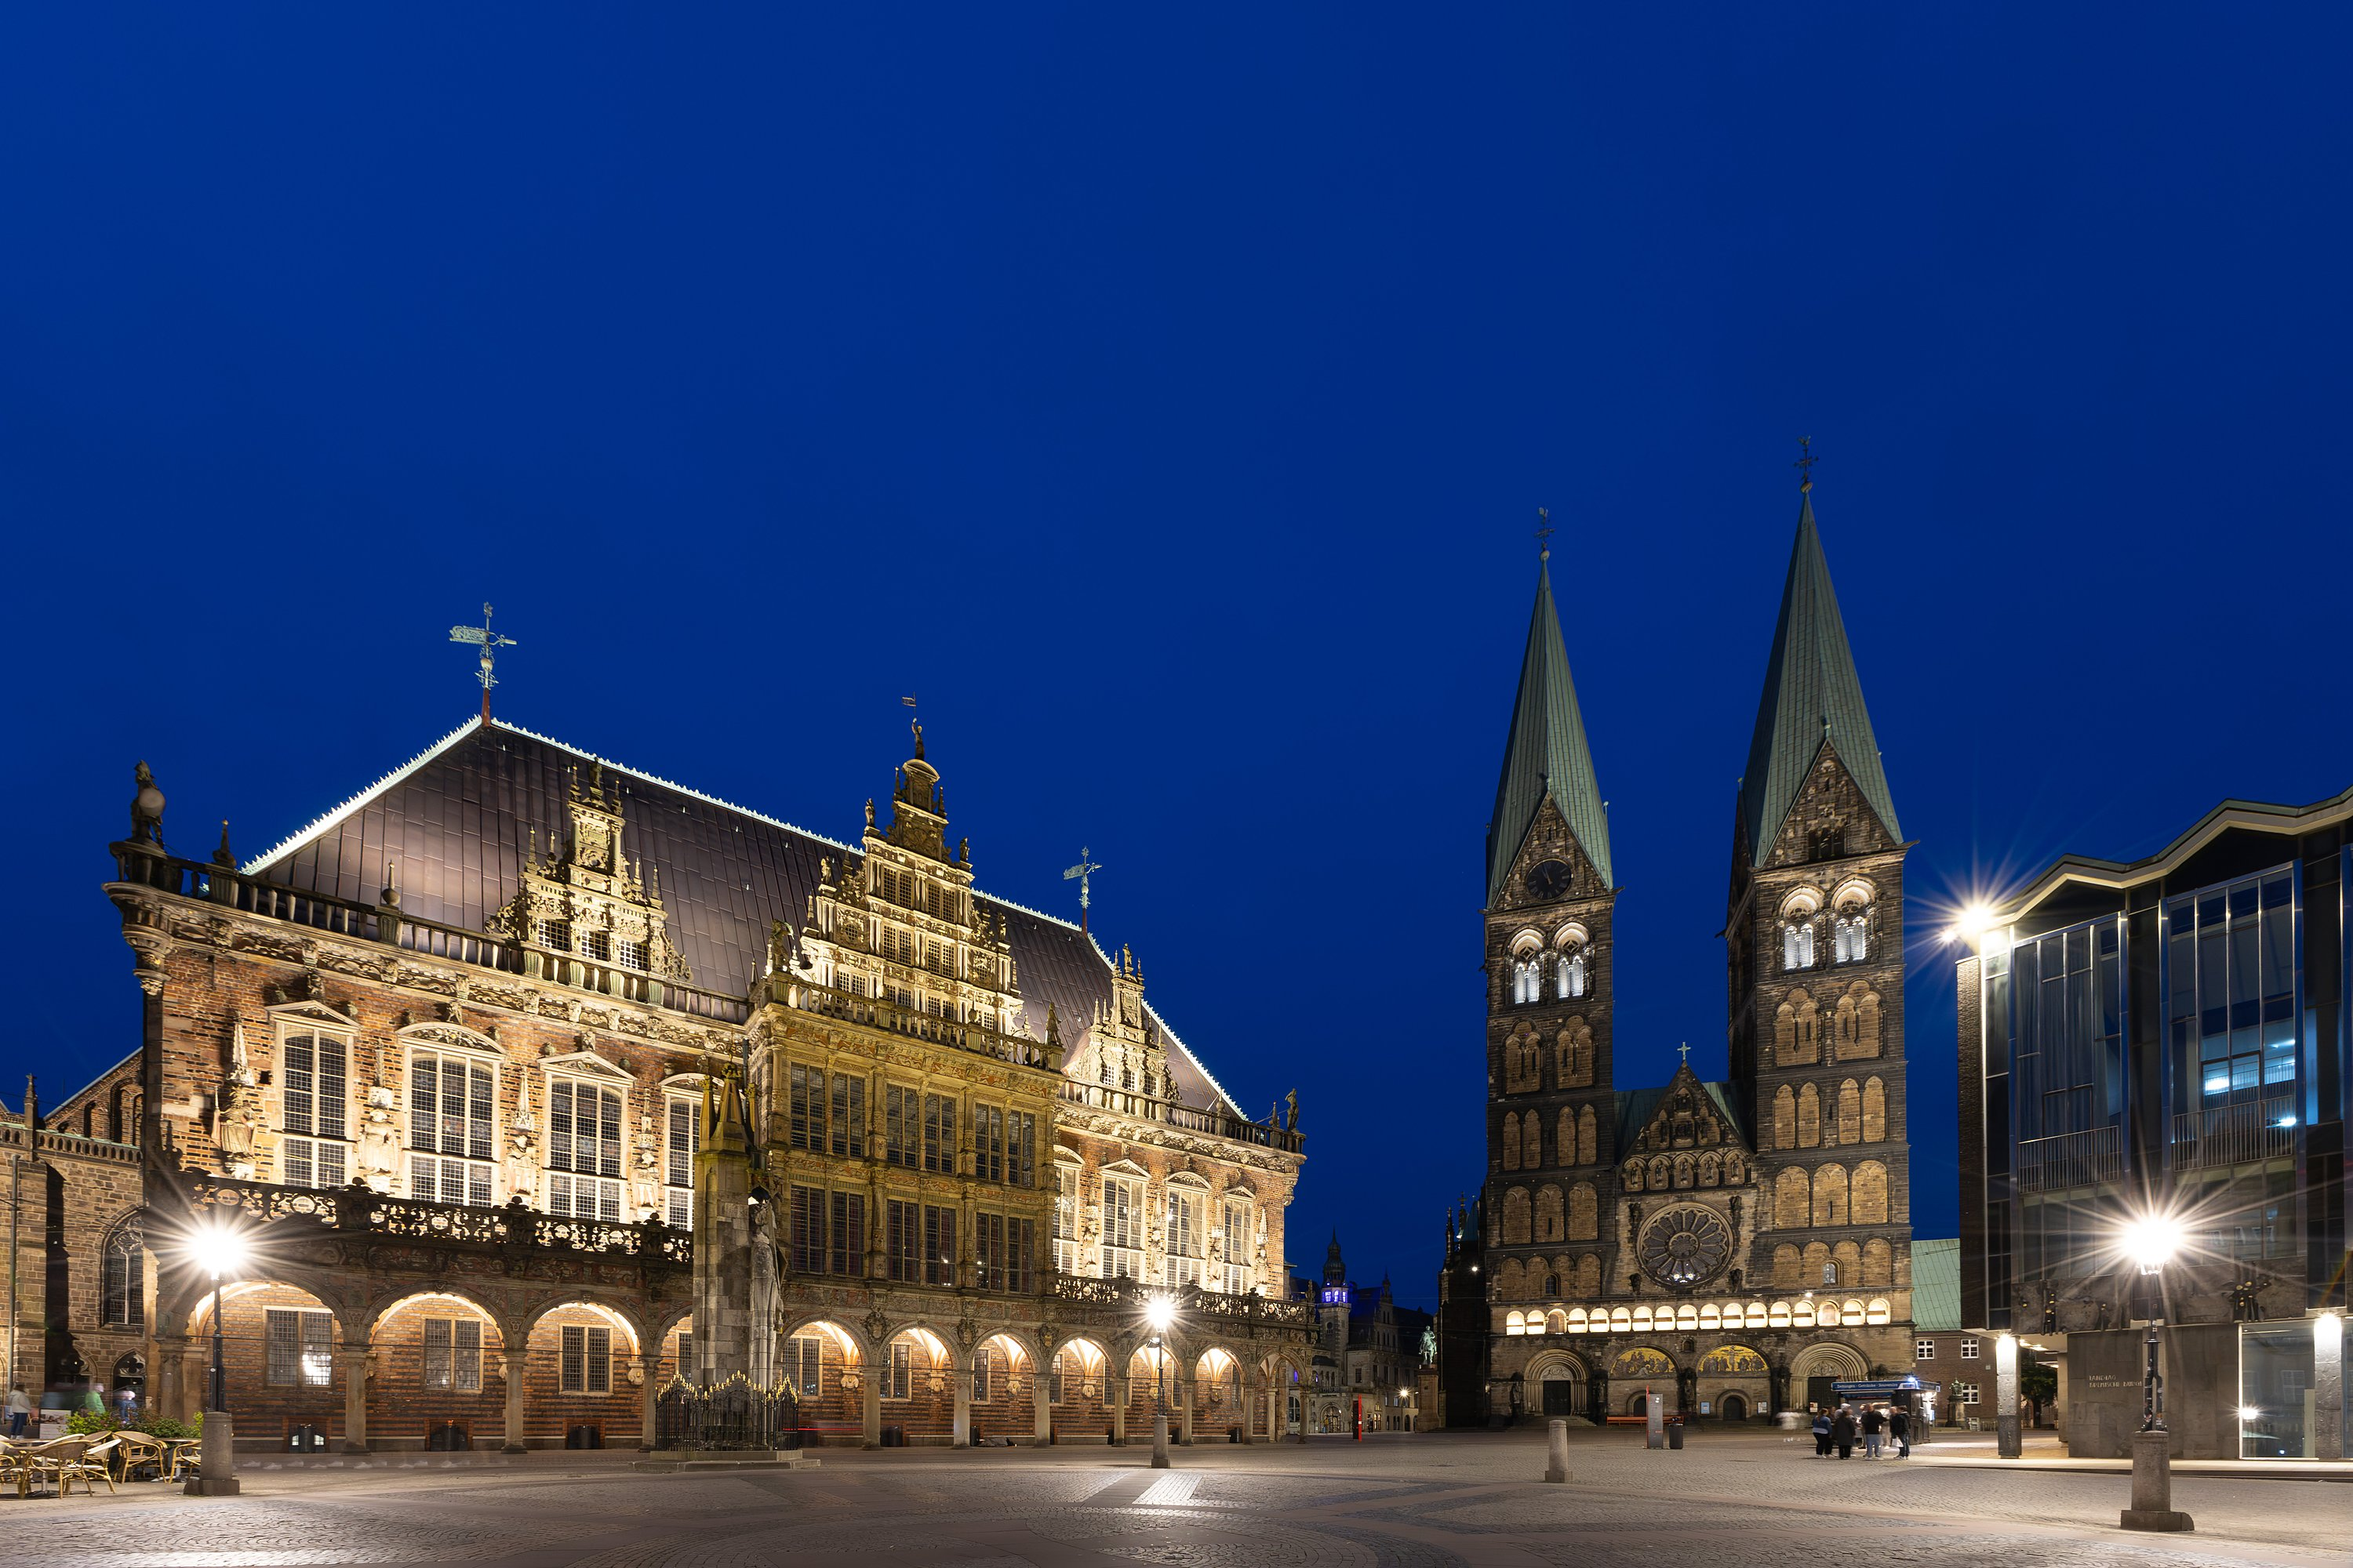
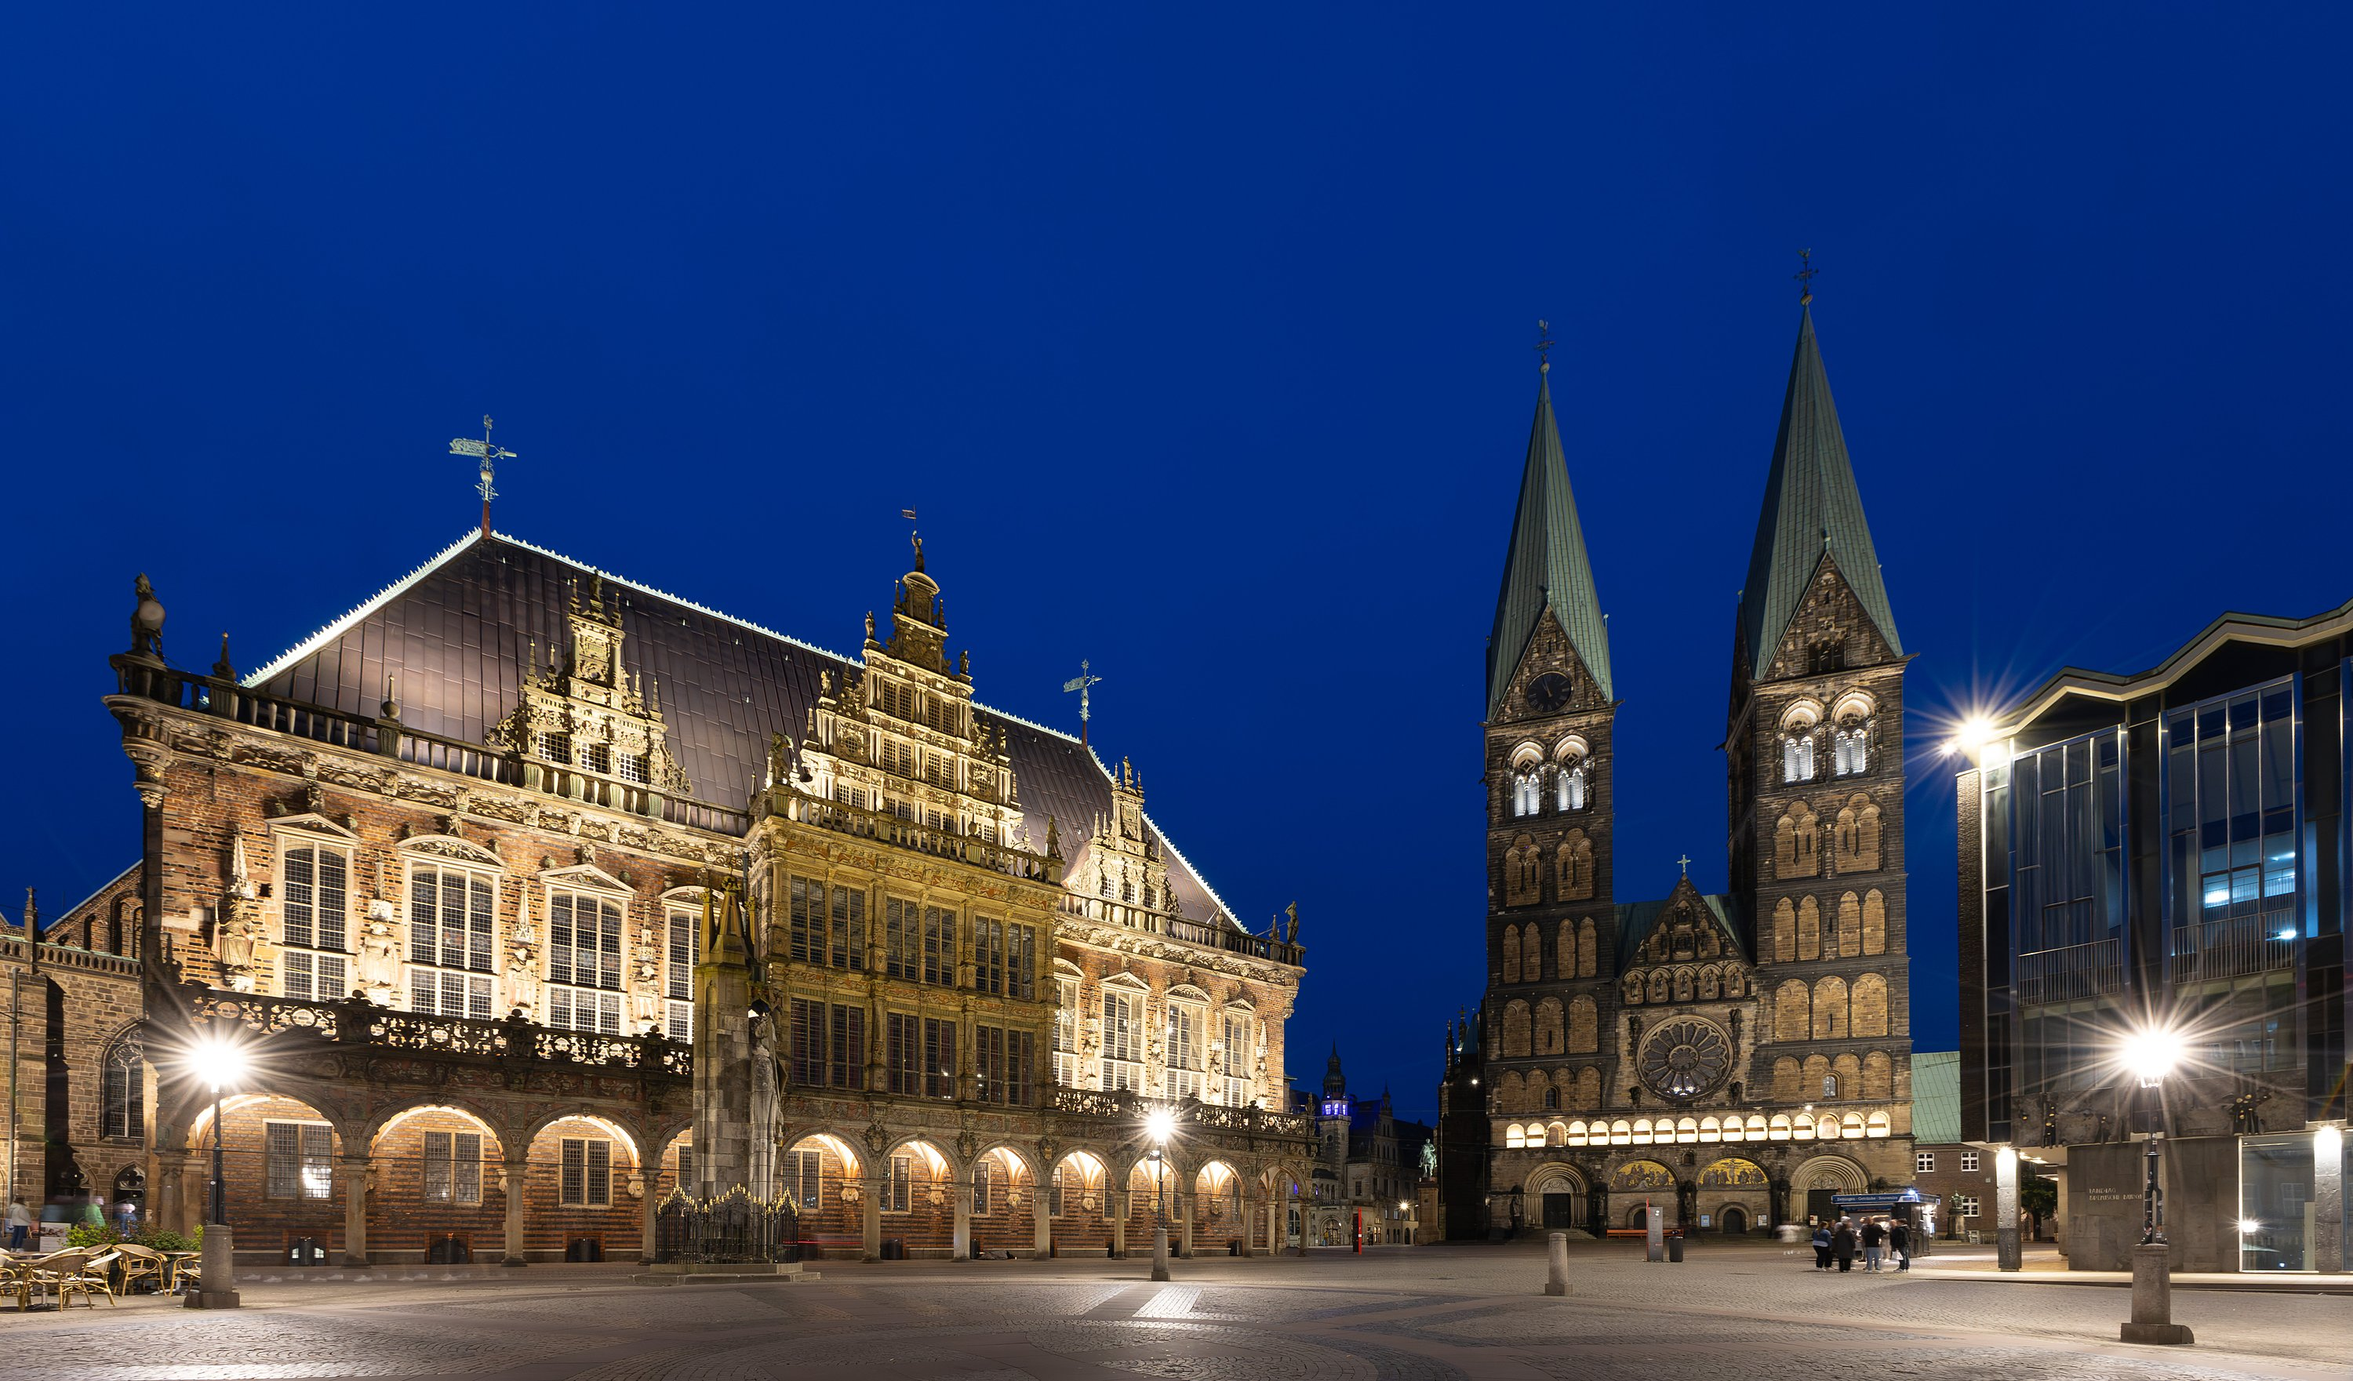
update design less sky and mobile text

diff --git a/index.html b/index.html
@@ -212,14 +212,14 @@ section.scene{ position:relative; }
   text-transform:uppercase; line-height:1;
 }
 .flight-codes .to{ color:transparent; -webkit-text-stroke:1px var(--paper); }
-.flight-path{ width:100%; height:90px; margin:2vh 0 3vh; overflow:visible; }
+.flight-path{ width:100%; height:auto; margin:2vh 0 3vh; overflow:visible; }
 .flight-path .dash{
   fill:none; stroke:var(--paper-dim); stroke-width:1.5; stroke-dasharray:6 8; opacity:.5;
 }
 .flight-path .draw{
   fill:none; stroke-width:2;
 }
-.flight-path .craft{ font-size:18px; }
+
 .flight-meta{
   font-family:var(--font-mono); font-size:11px; letter-spacing:.34em;
   color:var(--paper-dim); text-transform:uppercase; display:flex; justify-content:center; gap:3.5em; flex-wrap:wrap;
@@ -253,10 +253,13 @@ section.scene{ position:relative; }
 @media (max-width:760px){
   .flight-rail{ display:none; }
   .copyblock{
-    right:auto; left:50%; top:auto; bottom:30vh;
+    right:auto; left:50%; top:auto; bottom:22vh;
     transform:translateX(-50%);
-    width:min(440px, 88vw);
+    width:min(340px, 80vw);
+    padding:13px 15px;
   }
+  .copyblock p{ font-size:12px; line-height:1.6; }
+  .copyblock p+p{ display:none; } /* mobile shows only the lead paragraph */
   .copyblock.reveal{ transform:translate(-50%, 36px); }
   .copyblock.reveal.on{ transform:translate(-50%, 0); }
   .cityname{ bottom:5vh; }
@@ -320,8 +323,8 @@ section.scene{ position:relative; }
     </div>
 
     <div class="copyblock reveal">
-      <p>Ferries crossing the Bosphorus, cats on every corner and a first keyboard that turned tinkering into a calling. Istanbul taught me to live between worlds — and to build bridges between them.</p>
-      <p>Every journey needs a harbour to leave from. Mine was loud, golden and fifteen million people strong.</p>
+      <p>Ferries crossing the Bosphorus, cats on every corner, and a first keyboard that turned tinkering into a calling. Istanbul taught me to live between worlds — and to build bridges between them.</p>
+      <p>Every journey needs a harbour to leave from. Mine was loud, golden, and fifteen million people strong.</p>
     </div>
 
     <h2 class="cityname" data-drift="1">
@@ -336,10 +339,10 @@ section.scene{ position:relative; }
   <div class="stage">
     <div class="flight-board">
       <div class="flight-codes"><span>IST</span><span class="to">BRE</span></div>
-      <svg class="flight-path" viewBox="0 0 900 90" preserveAspectRatio="none" aria-hidden="true">
+      <svg class="flight-path" viewBox="0 0 900 90" aria-hidden="true">
         <path class="dash" d="M10,80 Q450,-40 890,80"/>
         <path class="draw" d="M10,80 Q450,-40 890,80" stroke="var(--ist)" pathLength="1"/>
-        <text class="craft" x="1" y="86" fill="var(--ist)">✈</text>
+        <g class="craft" fill="var(--ist)" transform="translate(10,80) rotate(75)"><path transform="translate(-11.5,-12)" d="M21,16v-2l-8-5V3.5C13,2.67,12.33,2,11.5,2S10,2.67,10,3.5V9l-8,5v2l8-2.5V19l-2,1.5V22l3.5-1l3.5,1v-1.5L13,19v-5.5L21,16z"/></g>
       </svg>
       <div class="flight-meta">
         <span>2,288 km north-west</span><span>One suitcase</span><span>A new language</span>
@@ -365,7 +368,7 @@ section.scene{ position:relative; }
     </div>
 
     <div class="copyblock reveal">
-      <p>Bremen is a city that rewards patience: brick gothic, drizzle and the Weser moving slowly toward the sea. Here I learned to build software at scale — platforms carrying ticket sales for theatres and concert halls across Europe, where every line of code had an audience waiting.</p>
+      <p>Bremen is a city that rewards patience: brick gothic, drizzle, and the Weser moving slowly toward the sea. Here I learned to build software at scale — platforms carrying ticket sales for theatres and concert halls across Europe, where every line of code had an audience waiting.</p>
       <p>Some cities teach you to dream. This one taught me to ship.</p>
     </div>
 
@@ -381,10 +384,10 @@ section.scene{ position:relative; }
   <div class="stage">
     <div class="flight-board">
       <div class="flight-codes"><span>BRE</span><span class="to">SYD</span></div>
-      <svg class="flight-path" viewBox="0 0 900 90" preserveAspectRatio="none" aria-hidden="true">
+      <svg class="flight-path" viewBox="0 0 900 90" aria-hidden="true">
         <path class="dash" d="M10,80 Q450,-40 890,80"/>
         <path class="draw" d="M10,80 Q450,-40 890,80" stroke="var(--bre)" pathLength="1"/>
-        <text class="craft" x="1" y="86" fill="var(--bre)">✈</text>
+        <g class="craft" fill="var(--bre)" transform="translate(10,80) rotate(75)"><path transform="translate(-11.5,-12)" d="M21,16v-2l-8-5V3.5C13,2.67,12.33,2,11.5,2S10,2.67,10,3.5V9l-8,5v2l8-2.5V19l-2,1.5V22l3.5-1l3.5,1v-1.5L13,19v-5.5L21,16z"/></g>
       </svg>
       <div class="flight-meta">
         <span>16,000 km south-east</span><span>Across the equator</span><span>July 2026</span>
@@ -410,7 +413,7 @@ section.scene{ position:relative; }
     </div>
 
     <div class="copyblock reveal">
-      <p>In 2026 the journey crosses the equator. Sydney is where the story turns from past tense to present: new team, new product, the Pacific instead of the North Sea and everything still to build.</p>
+      <p>In 2026 the journey crosses the equator. Sydney is where the story turns from past tense to present: new team, new product, the Pacific instead of the North Sea, and everything still to build.</p>
       <p>The best chapters are the ones you haven't finished writing.</p>
     </div>
 
@@ -425,16 +428,16 @@ section.scene{ position:relative; }
 <section id="epilogue">
   <div class="epilogue-inner">
     <p class="epilogue-kicker reveal">Epilogue</p>
-    <h2 class="epilogue-title reveal">The journey<br>continues</h2>
+    <h2 class="epilogue-title reveal">The journey<br><em>continues</em></h2>
     <p class="epilogue-copy reveal">
       Three cities, three continents, one craft carried the whole way.
       If our paths should cross next — in Sydney or anywhere else — say hello.
     </p>
     <div class="contact-row reveal">
       <!-- EDIT: replace with your real links -->
-      <a href="mailto:efemandira@gmail.com">Email</a>
-      <a href="https://github.com/mandira10" target="_blank" rel="noopener">GitHub</a>
-      <a href="https://www.linkedin.com/in/efe-carkcioglu/" target="_blank" rel="noopener">LinkedIn</a>
+      <a href="mailto:hello@example.com">Email</a>
+      <a href="https://github.com/" target="_blank" rel="noopener">GitHub</a>
+      <a href="https://www.linkedin.com/" target="_blank" rel="noopener">LinkedIn</a>
     </div>
   </div>
   <p class="footer-note">EFE · IST — BRE — SYD · © 2026</p>
@@ -556,8 +559,8 @@ section.scene{ position:relative; }
       }
       draw.style.strokeDashoffset = (1 - p).toFixed(3);
       const pt = qPoint(p);
-      craft.setAttribute('x', pt.x - 9);
-      craft.setAttribute('y', pt.y + 6);
+      const deg = Math.atan2(-240 + 480 * p, 880) * 180 / Math.PI + 90;
+      craft.setAttribute('transform', `translate(${pt.x.toFixed(1)},${pt.y.toFixed(1)}) rotate(${deg.toFixed(1)})`);
       if (rail) rail.style.height = (p * 100).toFixed(1) + '%';
     });
 
